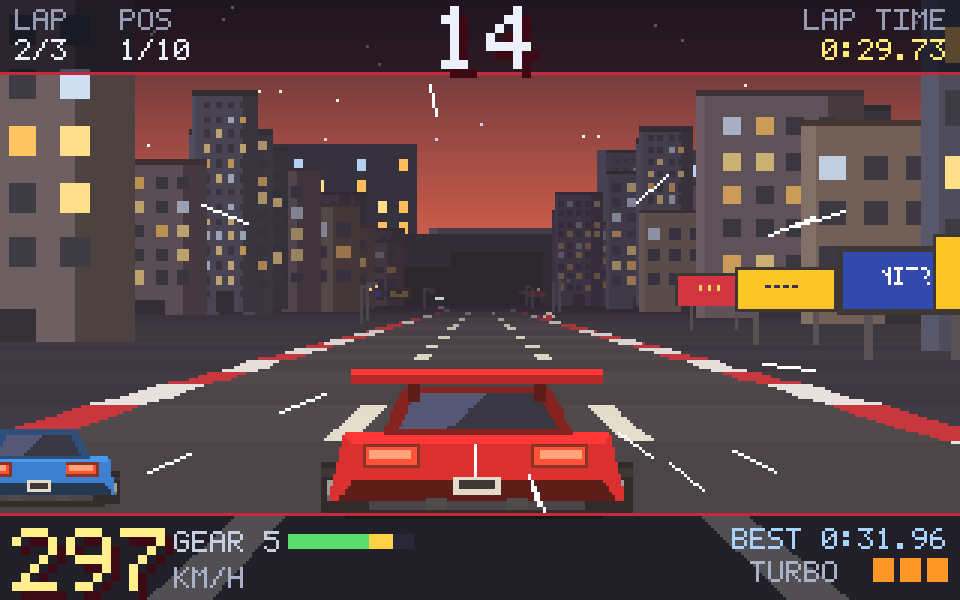
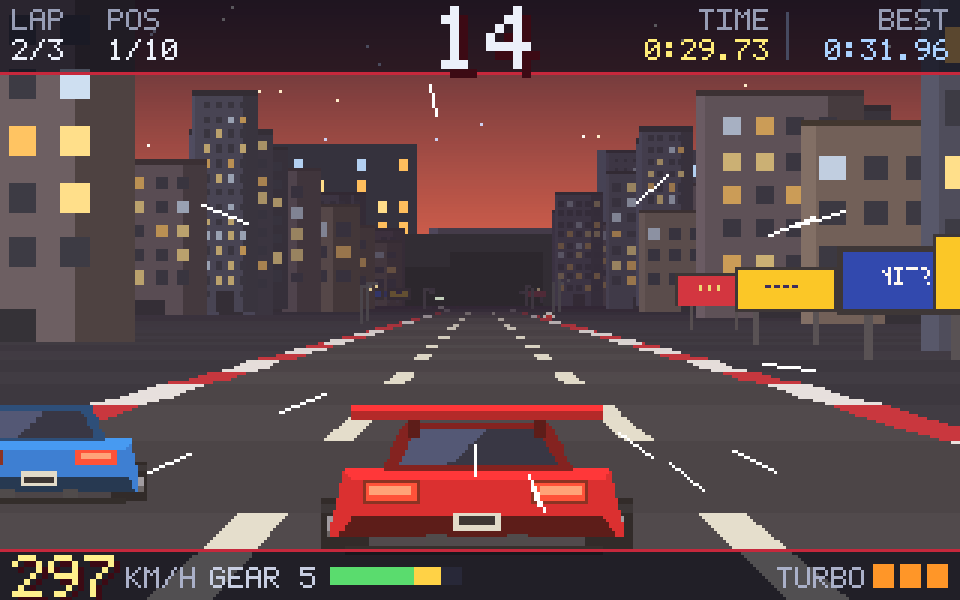
Size rivals to match their collision box, and slim the HUD
Rivals were drawn from a hardcoded sprite scale of 0.73, which put them at
0.241 road half-widths on screen while overlap() collided them at 0.320 - so
they rendered 25% narrower than the box you actually hit, and 25% narrower
than your own car. The draw scale is now derived from RIVAL_W and the real
sprite width, so the two cannot drift apart, and the geometry suite asserts
they match.

The instrument panel is also down from 28 pixels to a single 16 pixel line.
Best lap moved up to join the lap time on the top bar, with a divider between
them, leaving the bottom strip for the numbers you watch continuously: speed,
gear, revs and turbo. That is 12 more pixels of road, and the car sits higher
again because its placement is derived from HUD_BOTTOM.

diff --git a/game/race.py b/game/race.py
@@ -23,11 +23,12 @@ CENTRIFUGAL = 0.46
 KMH_PER_UNIT = 310.0 / MAX_SPEED
 GEARS = 5
 PLAYER_W = 0.32       # car width in road half-widths
+RIVAL_W = 0.32        # rivals are the same width, and must look it
 INK = (236, 240, 250)
 # HUD geometry on the 320x200 design grid. The player car is placed against
 # HUD_BOTTOM so the instrument panel cannot swallow its wheels.
 HUD_TOP = 24
-HUD_BOTTOM = 28
+HUD_BOTTOM = 16
 CAR_SINK = 4          # how far the car's bottom tucks behind the panel
 TURBO_TIME = 2.6
 TURBO_BOOST = 1.22
@@ -51,7 +52,7 @@ class Rival:
         self.speed = speed
         self.colour = colour
         self.lean = 1
-        self.size = 0.73
+        self.size = 0.97      # overwritten from the real sprite on spawn
         self.sprite = 'car_rival%d_1' % colour
         self.seg = None
         self.total = z
@@ -132,6 +133,10 @@ class Race:
     def _spawn_rivals(self):
         n = self.track.rivals
         total = len(self.track.segments)
+        # Derive the draw scale from the collision width and the actual sprite,
+        # so a rival can never render narrower than the box you hit.
+        sprite_w = self.r.assets.get('car_rival0_1').get_width()
+        size = RIVAL_W * ROAD_WIDTH / (sprite_w * OBJECT_SCALE)
         for i in range(n):
             z = (i + 1) * (self.track.length / (n + 1.0)) * 0.55 + 1500
             off = self.rng.choice([-0.62, -0.24, 0.24, 0.62]) \
@@ -139,6 +144,7 @@ class Race:
             speed = MAX_SPEED * self.rng.uniform(0.56, 0.80) \
                 * self.track.par_speed
             car = Rival(z % self.track.length, off, speed, i % 6)
+            car.size = size
             seg = self.track.segment_at(car.z)
             seg.cars.append(car)
             car.seg = seg
@@ -366,20 +372,21 @@ class Race:
             # sirens: rivals pull over well before the player arrives
             gap = (base - player_seg_i) % n
             if gap < 42 and overlap(self.player.x, self.car_body + 0.5,
-                                    car.offset, 0.32, 1.0):
+                                    car.offset, RIVAL_W, 1.0):
                 return -1.4 if self.player.x > car.offset else 1.4
         for i in range(1, look):
             seg = track.segments[(base + i) % n]
             if (base + i) % n == player_seg_i and \
                     car.speed > self.player.speed and \
-                    overlap(self.player.x, self.car_body, car.offset, 0.32,
+                    overlap(self.player.x, self.car_body, car.offset, RIVAL_W,
                             1.4):
                 return -0.9 if self.player.x > car.offset else 0.9
             for other in seg.cars:
                 if other is car:
                     continue
                 if car.speed > other.speed and \
-                        overlap(car.offset, 0.32, other.offset, 0.32, 1.3):
+                        overlap(car.offset, RIVAL_W, other.offset, RIVAL_W,
+                                1.3):
                     return -0.7 if other.offset > car.offset else 0.7
         # ease back toward the middle of the road
         if car.offset < -0.75:
@@ -405,7 +412,7 @@ class Race:
         for car in list(seg.cars):
             if p.speed <= car.speed:
                 continue
-            if overlap(p.x, self.car_body, car.offset, 0.32, 0.85):
+            if overlap(p.x, self.car_body, car.offset, RIVAL_W, 0.85):
                 keep = 0.72 + 0.14 * (self.car['mass'] - 1.0)
                 p.speed = max(car.speed * clamp(keep, 0.6, 0.95),
                               p.speed * 0.55)
@@ -585,90 +592,93 @@ class Race:
 
     # -- HUD ------------------------------------------------------------
     def draw_hud(self, s):
+        """Two thin strips: everything you glance at lives on the top bar, and
+        the bottom keeps a single line for the numbers you watch continuously."""
         p = self.player
-        panel = pygame.Surface((BASE_WIDTH, 24), pygame.SRCALPHA)
+        W, H = BASE_WIDTH, BASE_HEIGHT
+
+        panel = pygame.Surface((W, HUD_TOP), pygame.SRCALPHA)
         panel.fill((10, 10, 22, 172))
         s.blit(panel, (0, 0))
-        s.fill((198, 40, 60), (0, 24, BASE_WIDTH, 1))
+        s.fill((198, 40, 60), (0, HUD_TOP, W, 1))
 
-        pf.draw_text(s, 'LAP', 5, 3, (150, 156, 180), 1)
+        pf.draw_text(s, 'LAP', 4, 3, (150, 156, 180), 1)
         pf.draw_text(s, '%d/%d' % (min(p.lap + 1, self.track.laps),
-                                   self.track.laps), 5, 13, INK, 1)
-        pf.draw_text(s, 'POS', 40, 3, (150, 156, 180), 1)
+                                   self.track.laps), 4, 13, INK, 1)
+        pf.draw_text(s, 'POS', 36, 3, (150, 156, 180), 1)
         pf.draw_text(s, '%d/%d' % (self.position, self.track.rivals + 1),
-                     40, 13, INK, 1)
+                     36, 13, INK, 1)
 
-        # big countdown clock
+        # the countdown, the one number that decides the race
         t = self.time_left
         col = INK
         if t < 6:
             col = (255, 90, 90) if int(t * 4) % 2 == 0 else (255, 200, 60)
         elif self.flash > 0 and int(self.flash * 12) % 2 == 0:
             col = (140, 255, 150)
-        pf.draw_text(s, '%02d' % int(min(99, math.ceil(t))), BASE_WIDTH // 2, 2,
+        pf.draw_text(s, '%02d' % int(min(99, math.ceil(t))), W // 2, 2,
                      col, 3, center=True, shadow=(60, 10, 20))
 
-        pf.draw_text(s, 'LAP TIME', BASE_WIDTH - 5, 3, (150, 156, 180), 1,
+        pf.draw_text(s, 'TIME', 256, 3, (150, 156, 180), 1, right=True)
+        pf.draw_text(s, fmt(self.lap_time), 256, 13, (255, 236, 120), 1,
                      right=True)
-        pf.draw_text(s, fmt(self.lap_time), BASE_WIDTH - 5, 13, (255, 236, 120), 1,
+        s.fill((70, 74, 96), (262, 4, 1, HUD_TOP - 8))
+        pf.draw_text(s, 'BEST', W - 4, 3, (150, 156, 180), 1, right=True)
+        pf.draw_text(s, fmt(self.best_lap), W - 4, 13, (170, 210, 255), 1,
                      right=True)
 
-        # bottom instrument strip
-        bh = HUD_BOTTOM
-        base = pygame.Surface((BASE_WIDTH, bh), pygame.SRCALPHA)
+        # single-line instrument strip
+        top = H - HUD_BOTTOM
+        base = pygame.Surface((W, HUD_BOTTOM), pygame.SRCALPHA)
         base.fill((10, 10, 22, 172))
-        s.blit(base, (0, BASE_HEIGHT - bh))
-        s.fill((198, 40, 60), (0, BASE_HEIGHT - bh - 1, BASE_WIDTH, 1))
-        top = BASE_HEIGHT - bh
+        s.blit(base, (0, top))
+        s.fill((198, 40, 60), (0, top - 1, W, 1))
 
-        pf.draw_text(s, '%3d' % int(self.kmh), 4, top + 4, (255, 240, 140), 3,
+        pf.draw_text(s, '%3d' % int(self.kmh), 4, top + 1, (255, 240, 140), 2,
                      shadow=(60, 10, 20))
-        pf.draw_text(s, 'KM/H', 58, top + 17, (170, 176, 200), 1)
+        pf.draw_text(s, 'KM/H', 42, top + 5, (170, 176, 200), 1)
         gear, rpm = self.gear_rpm()
-        pf.draw_text(s, 'GEAR %d' % gear, 58, top + 5, (200, 206, 226), 1)
+        pf.draw_text(s, 'GEAR %d' % gear, 70, top + 5, (200, 206, 226), 1)
 
-        bx, by, bw = 96, top + 6, 42
-        s.fill((40, 40, 56), (bx, by, bw, 5))
+        bx, by, bw = 110, top + 5, 44
+        s.fill((40, 40, 56), (bx, by, bw, 6))
         n = int(rpm * bw)
         for i in range(n):
             c = (90, 220, 110) if i < bw * 0.62 else (
                 (255, 210, 70) if i < bw * 0.84 else (255, 70, 70))
-            s.fill(c, (bx + i, by, 1, 5))
+            s.fill(c, (bx + i, by, 1, 6))
         if p.turbo_left > 0:
-            pf.draw_text(s, 'BOOST', bx, by + 8, (255, 170, 60), 1)
+            pf.draw_text(s, 'BOOST', 160, top + 5, (255, 170, 60), 1)
 
-        pf.draw_text(s, 'BEST ' + fmt(self.best_lap), BASE_WIDTH - 5, top + 4,
-                     (170, 210, 255), 1, right=True)
         for i in range(3):
-            x = BASE_WIDTH - 11 - i * 9
+            x = W - 11 - i * 9
             on = i < p.turbo
             c = (255, 150, 40) if on else (58, 58, 74)
             if p.turbo_left > 0 and i == p.turbo and int(
                     p.turbo_left * 10) % 2 == 0:
                 c = (255, 240, 160)
-            s.fill(c, (x, top + 14, 7, 8))
-        pf.draw_text(s, 'TURBO', BASE_WIDTH - 41, top + 15, (170, 176, 200), 1,
+            s.fill(c, (x, top + 4, 7, 8))
+        pf.draw_text(s, 'TURBO', W - 32, top + 5, (170, 176, 200), 1,
                      right=True)
 
         # centre messages
         y = 76
         for text, ttl, colour, big in self.messages:
             if ttl > 0:
-                pf.draw_text(s, text, BASE_WIDTH // 2, y, colour, 2 if big else 1,
+                pf.draw_text(s, text, W // 2, y, colour, 2 if big else 1,
                              center=True, shadow=(20, 12, 30))
                 y += 20
 
         if self.state == self.STATE_COUNTDOWN and self.countdown > 0:
             n = int(math.ceil(self.countdown - 0.9))
             if n >= 1:
-                pf.draw_text(s, str(min(3, n)), BASE_WIDTH // 2, 56,
-                             (255, 236, 120), 6, center=True,
-                             shadow=(120, 20, 40))
+                pf.draw_text(s, str(min(3, n)), W // 2, 56, (255, 236, 120),
+                             6, center=True, shadow=(120, 20, 40))
 
         if p.offroad and self.state == self.STATE_RACING:
             if int(self.race_time * 6) % 2 == 0:
-                pf.draw_text(s, 'OFF ROAD', BASE_WIDTH // 2, BASE_HEIGHT - 42,
-                             (255, 120, 120), 1, center=True)
+                pf.draw_text(s, 'OFF ROAD', W // 2, H - 34, (255, 120, 120),
+                             1, center=True)
 
 
 def fmt(t):

diff --git a/tests/test_geometry.py b/tests/test_geometry.py
@@ -77,6 +77,28 @@ def run():
         c.check(track.length == len(track.segments) * SEGMENT_LENGTH,
                 '%s length does not match its segment count' % spec['name'])
 
+    # -- rivals must look the size they collide at ---------------------
+    from game.race import PLAYER_W, RIVAL_W
+    import random as _rnd
+    from game.render import Renderer as _R
+    from game.scores import Scores as _S
+    from game.race import Race as _Race
+    _renderer = _R(assets)
+    _race = _Race(T.load('country'), _renderer, harness.silent_audio(),
+                  _S(T.TRACK_SPECS), _rnd.Random(1))
+    rival = _race.cars[0]
+    sprite_w = assets.get(rival.sprite).get_width()
+    drawn = sprite_w * rival.size * OBJECT_SCALE / ROAD_WIDTH
+    c.near(drawn, RIVAL_W - 0.005, RIVAL_W + 0.005,
+           'rivals render %.3f road half-widths wide but collide at %.3f - '
+           'you would hit an invisible edge' % (drawn, RIVAL_W))
+    c.near(drawn, PLAYER_W * 0.9, PLAYER_W * 1.1,
+           'rivals are a different size from the player car (%.3f vs %.3f)'
+           % (drawn, PLAYER_W))
+    c.note('rivals draw %.3f wide, collide at %.3f, player is %.3f'
+           % (drawn, RIVAL_W, PLAYER_W))
+    _race.clear()
+
     # -- the HUD must not swallow the player's car ---------------------
     _check_car_clears_hud(c)
 
